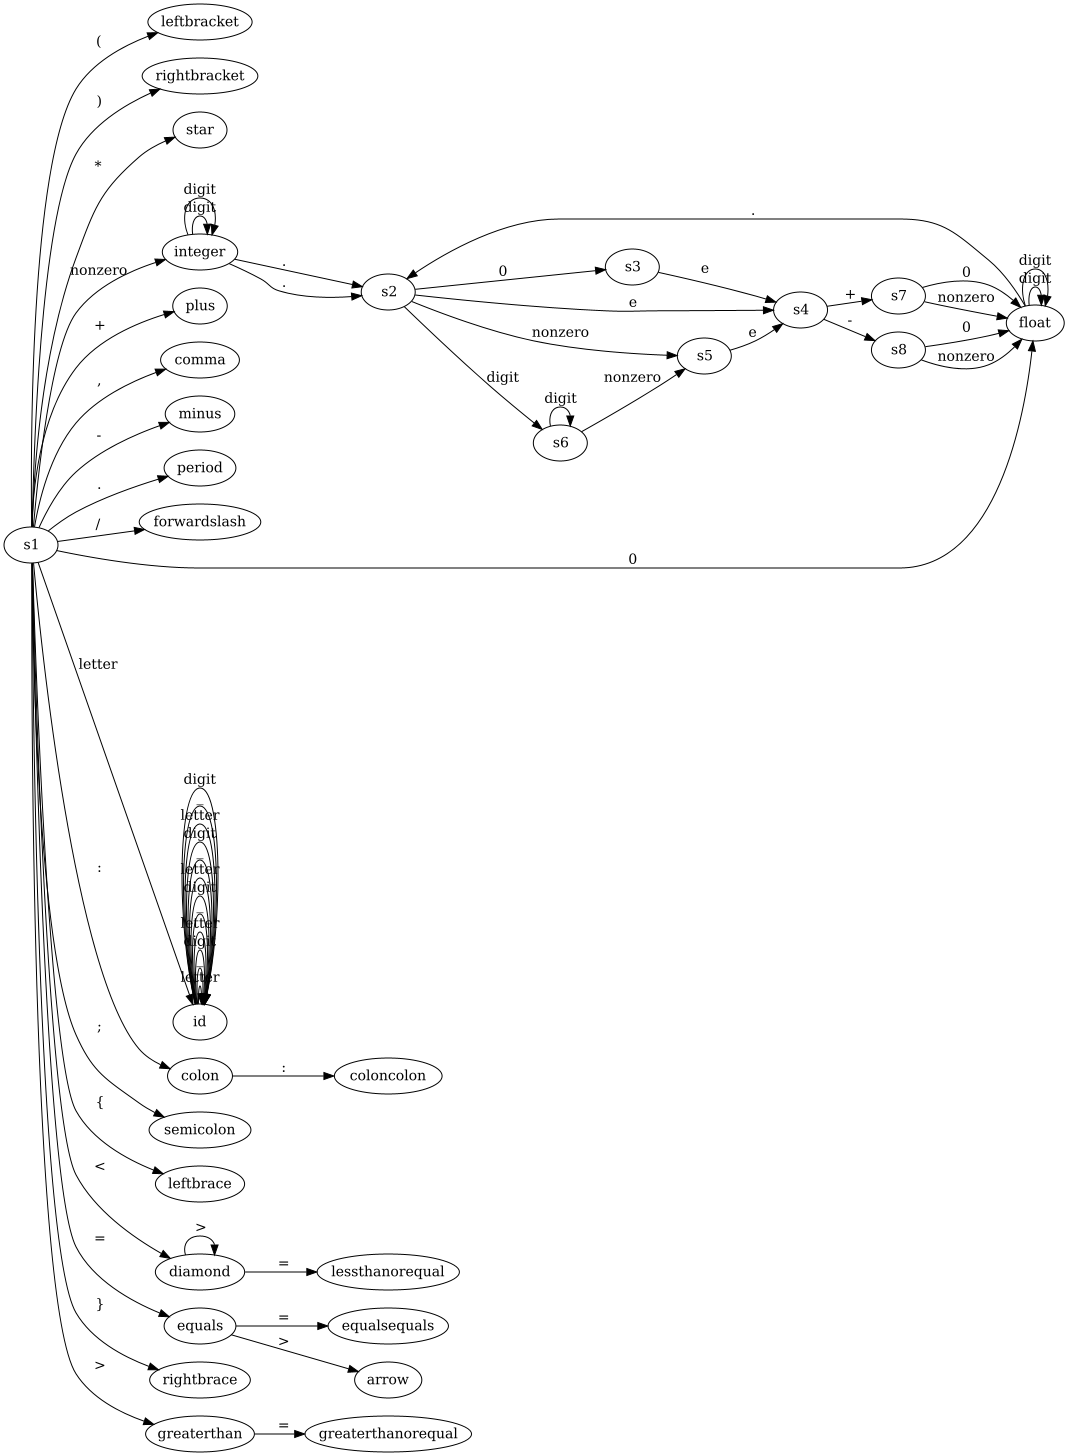
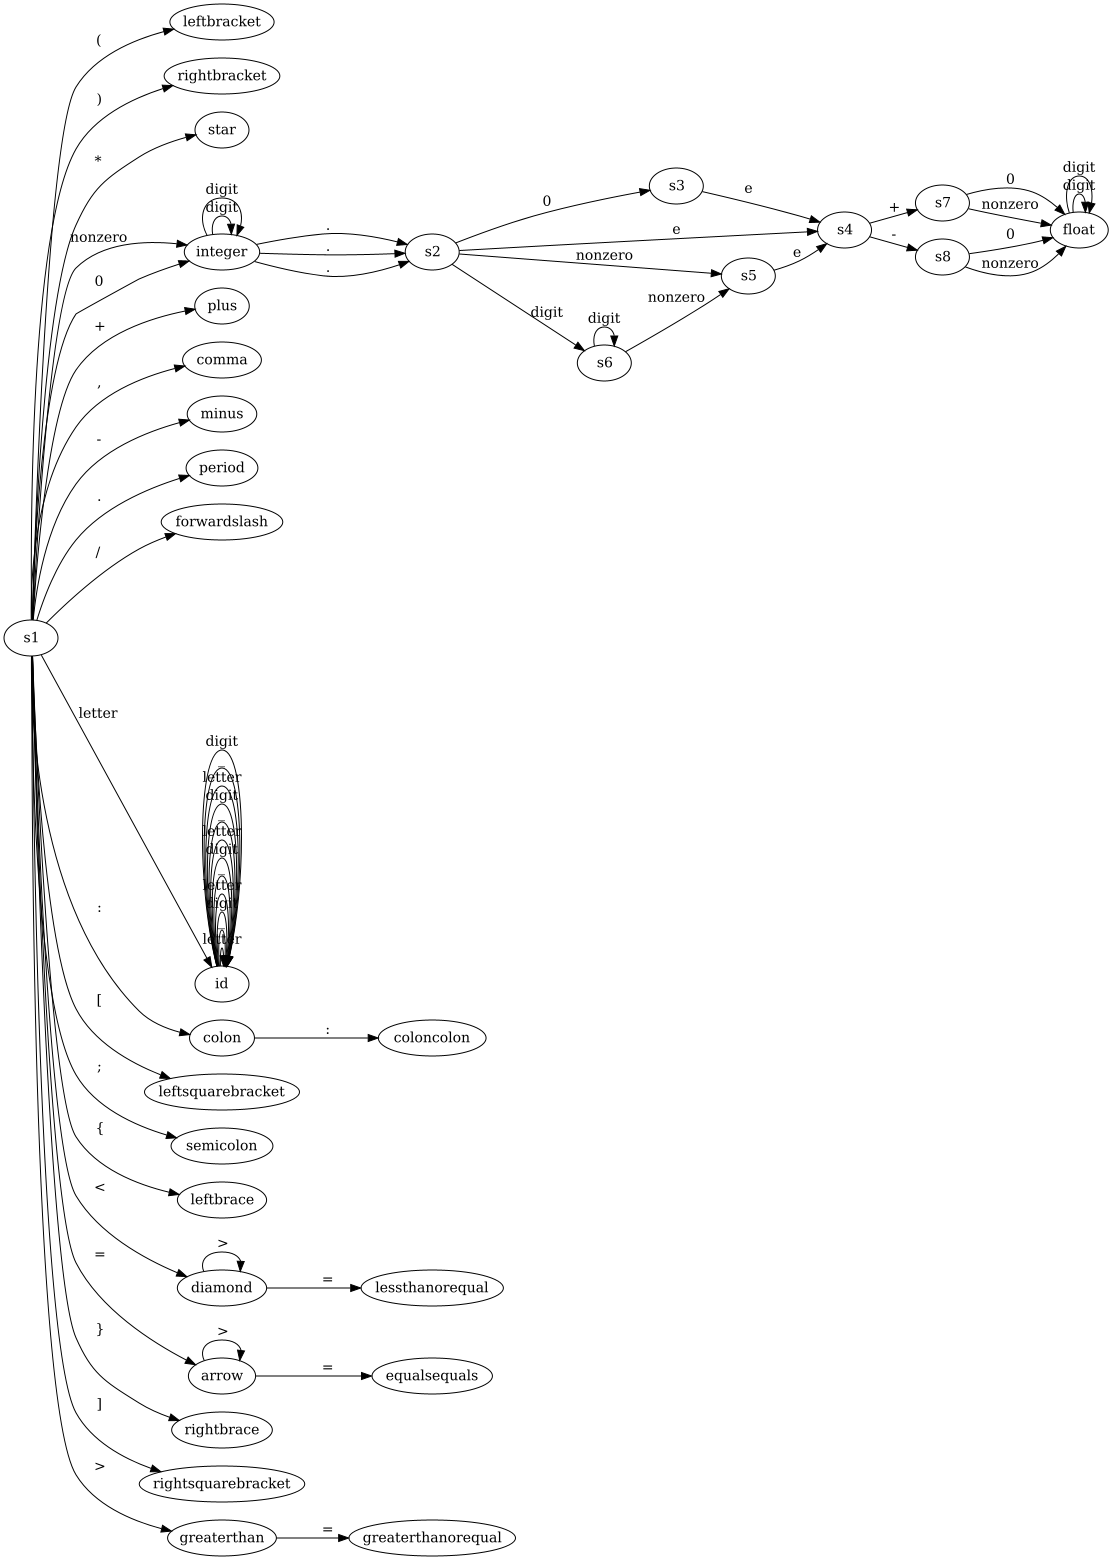
re-implemented square brackets

diff --git a/src/LexicalAnalysis/Token.java b/src/LexicalAnalysis/Token.java
@@ -17,7 +17,6 @@ public enum Token {
     GREATER_THAN_OR_EQUAL("greaterthanorequal", "> =", true, true),
     PLUS("plus", "+", true, true),
     MINUS("minus", "-", true, true),
-    // todo: implement * and [ ]
     STAR("star", "*", true, true),
     FORWARD_SLASH("forwardslash", "/", true, true),
     EQUALS("equals", "=", true, true),
@@ -25,8 +24,8 @@ public enum Token {
     RIGHT_BRACKET("rightbracket", ")", true, true),
     LEFT_BRACE("leftbrace", "{", true, true),
     RIGHT_BRACE("rightbrace", "}", true, true),
-//    LEFT_SQUARE_BRACKET("leftsquarebracket", "[", true, true),
-//    RIGHT_SQUARE_BRACKET("rightsquarebracket", "]", true, true),
+    LEFT_SQUARE_BRACKET("leftsquarebracket", "[", true, true),
+    RIGHT_SQUARE_BRACKET("rightsquarebracket", "]", true, true),
     SEMI_COLON("semicolon", ";", true, true),
     COMMA("comma", ",", true, true),
     PERIOD("period", ".", true, true),
